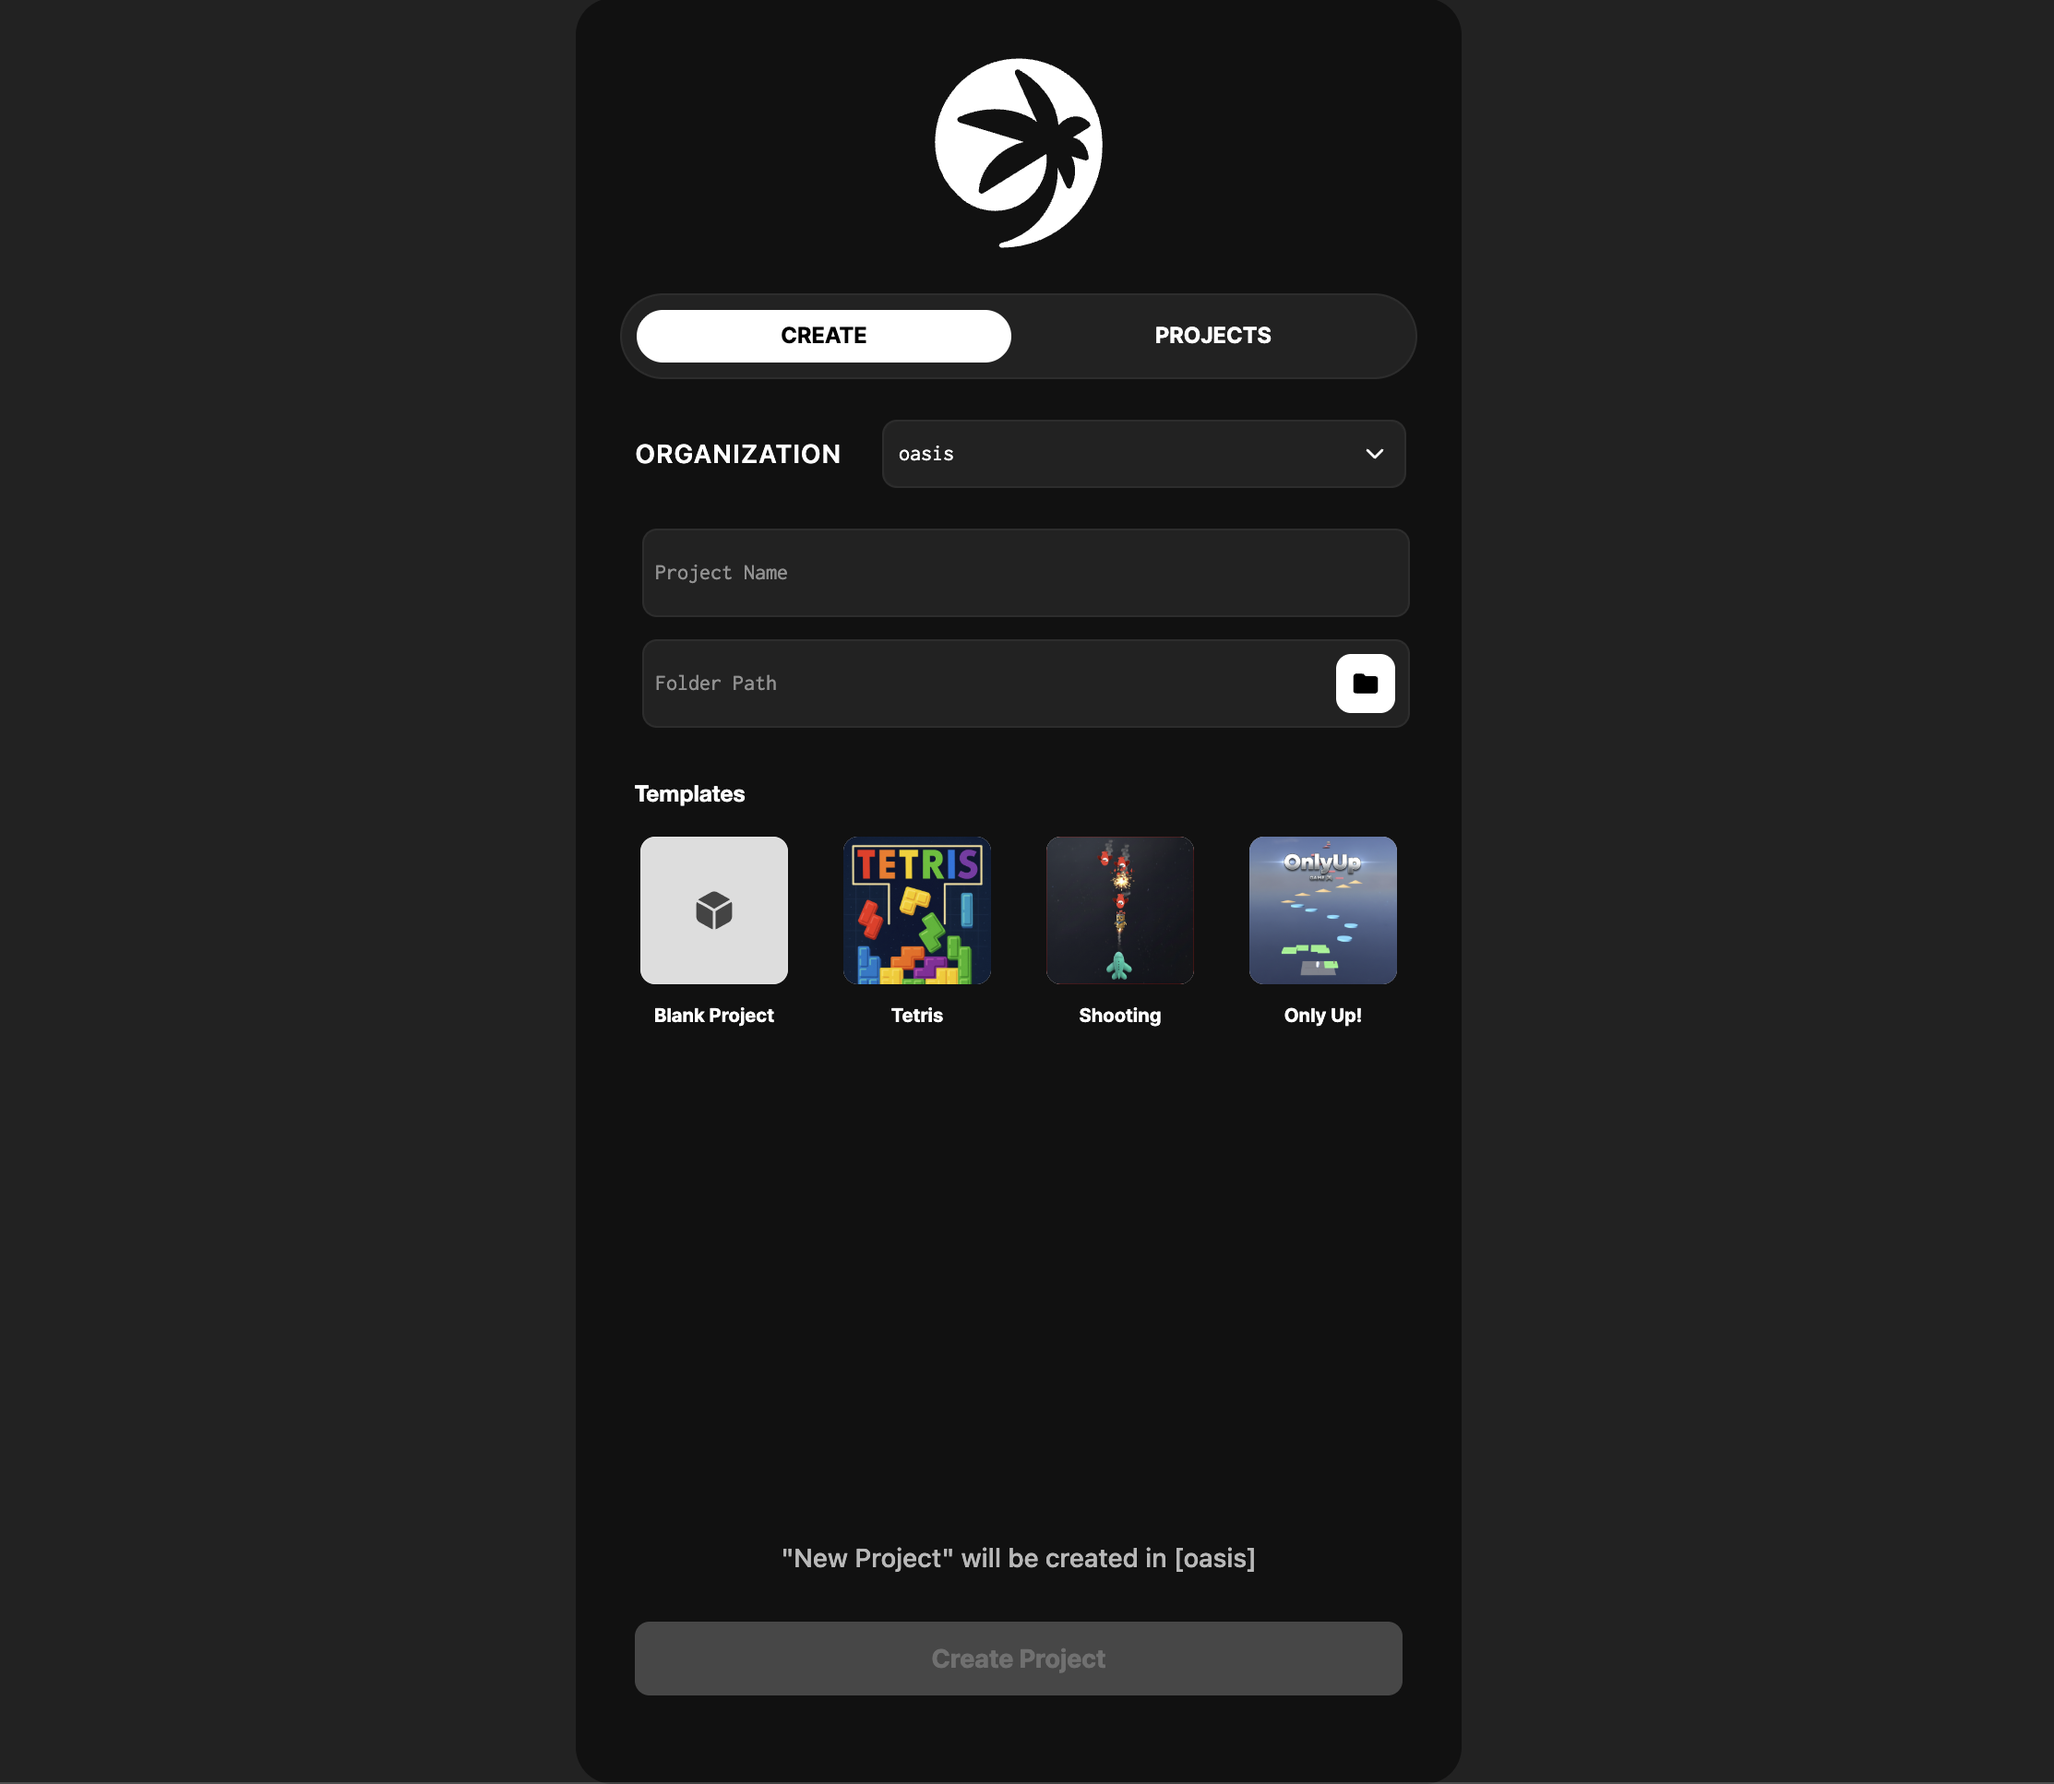
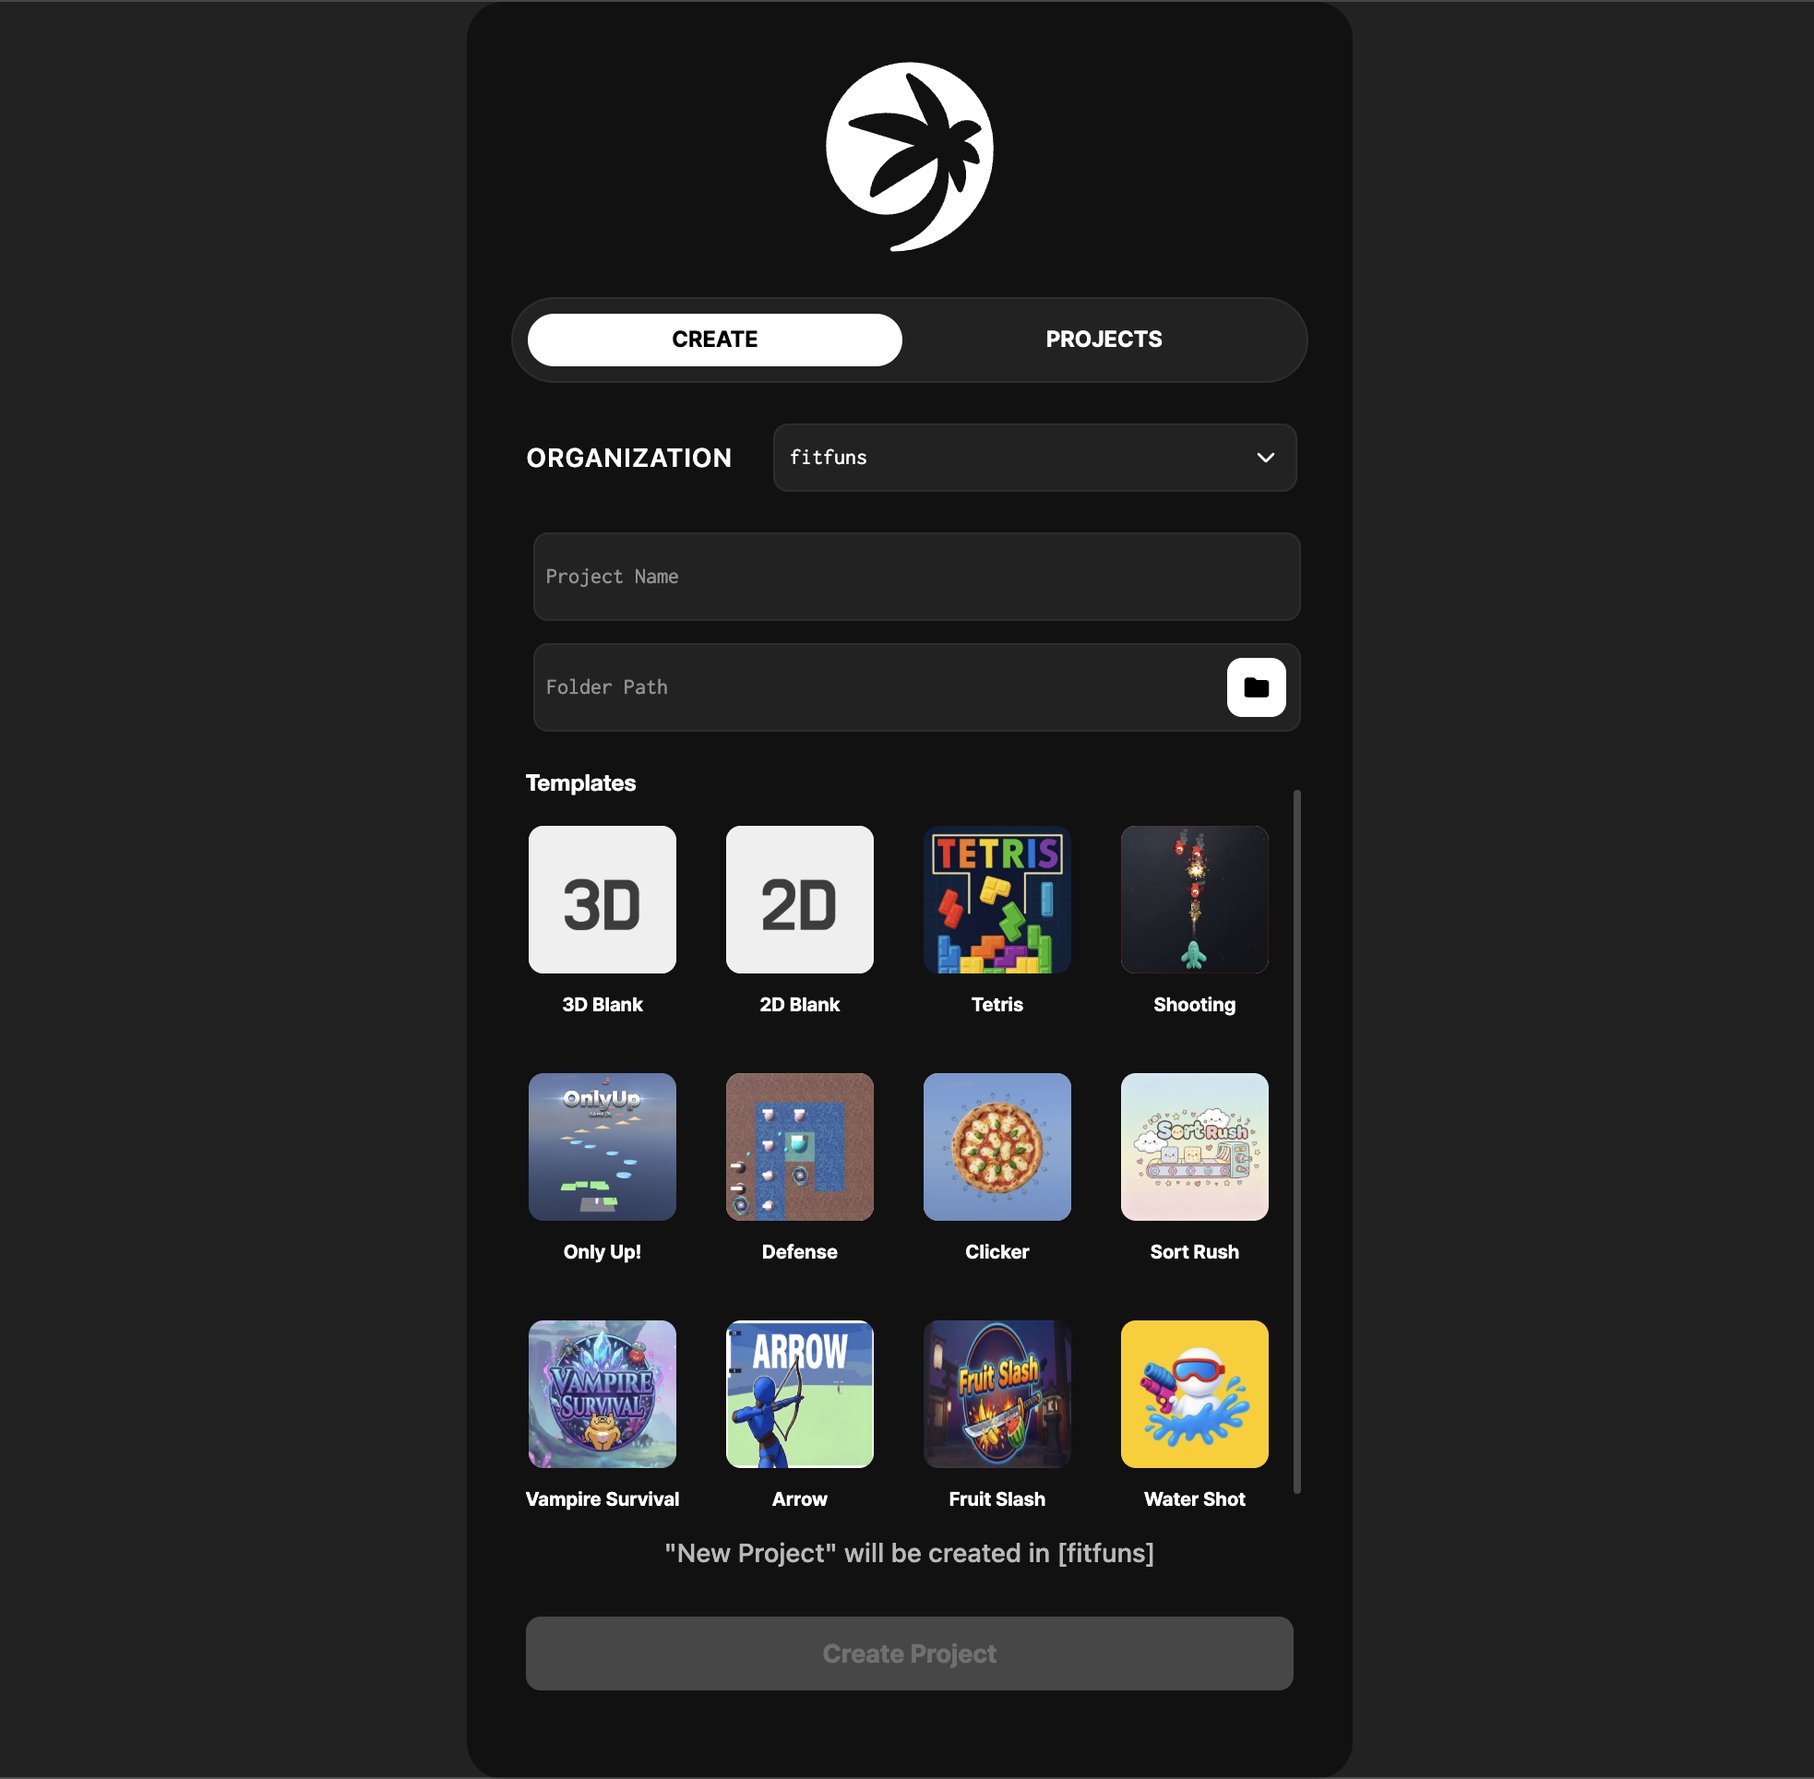
fix: 템플릿 프로젝트 추가

diff --git a/i18n/en/docusaurus-plugin-content-docs/current/usage-guide/create-a-project.md b/i18n/en/docusaurus-plugin-content-docs/current/usage-guide/create-a-project.md
@@ -45,13 +45,34 @@ You must **allow file edit permissions** in your browser to use the editor.
 - Suitable for projects starting from scratch.
 
 #### **Tetris**
-- 2D Tetris puzzle game template.
+- A 2D Tetris puzzle game template where you complete lines by rotating and placing blocks.
 
 #### **Shooting**
-- 2D airplane shooting game template.
+- A 2D airplane shooting game template where you fire missiles to defeat enemies.
 
 #### **Only Up!**
-- 3D platformer game template.
+- A 3D platformer game template where you jump and move upward across objects.
+
+#### **Defense**
+- A defense game template where the player defeats incoming enemies while staying in a fixed position.
+
+#### **Clicker**
+- A 2D clicker game template where you increase your score and resources by clicking items.
+
+#### **Sort Rush**
+- A 2D reaction game template where you quickly sort appearing objects.
+
+#### **Vampire Survival**
+- A 2D survival game template where you defeat enemies, grow stronger, and beat the boss.
+
+#### **Arrow**
+- A 3D shooting action game template where you shoot arrows to defeat enemies.
+
+#### **Fruit Slash**
+- A 3D casual action game template where you slice fruit to score points.
+
+#### **Water Shot**
+- A simple, complete 3D shooting game template where you snipe targets.
 
 ## 2. Opening an Existing Project
 
